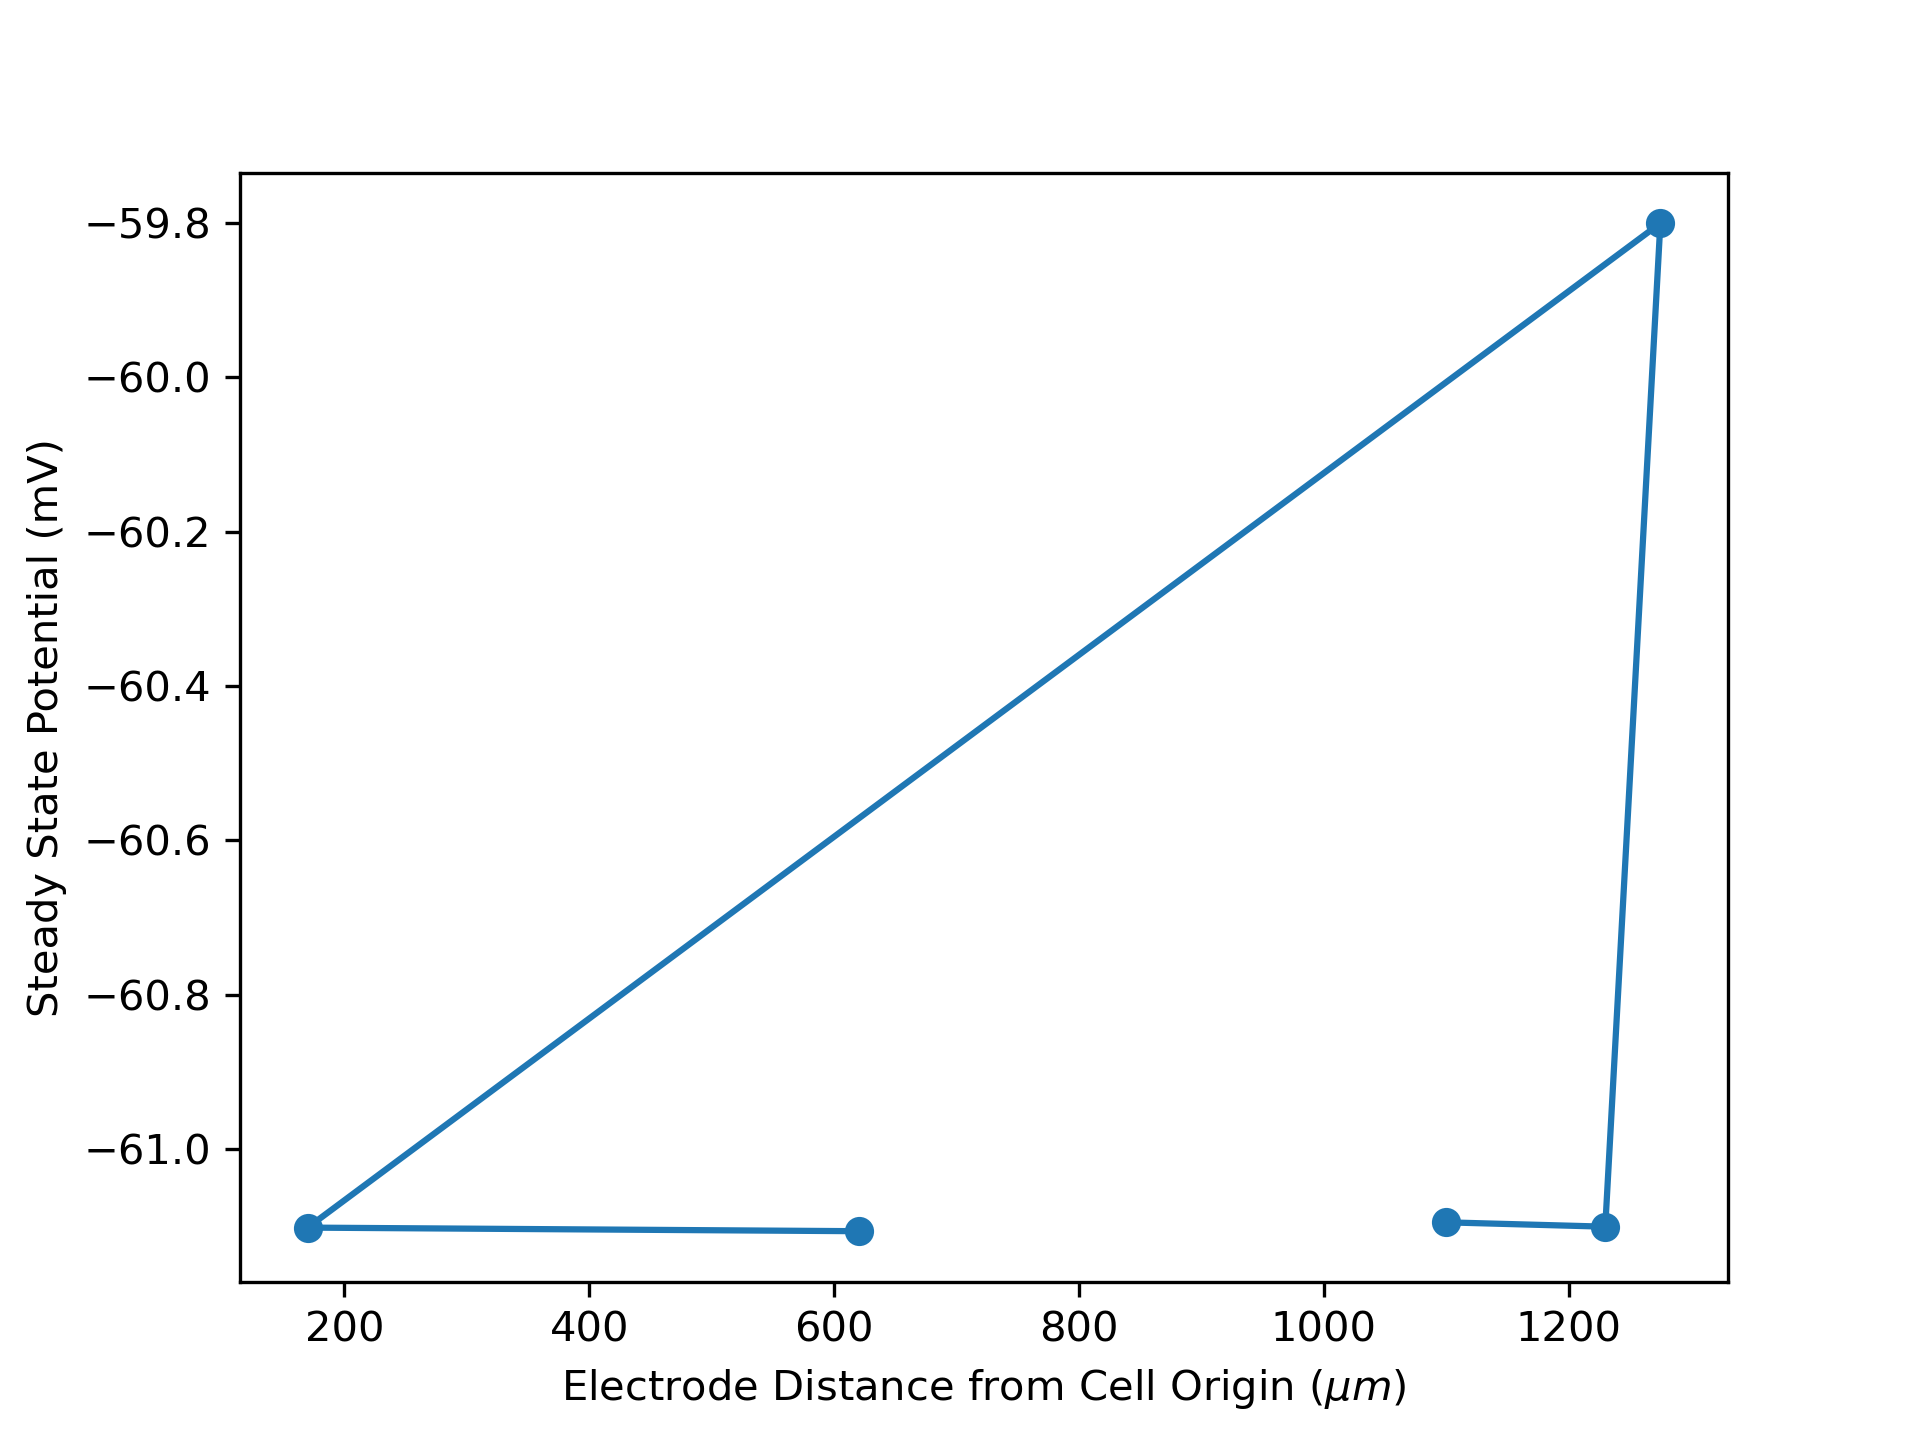
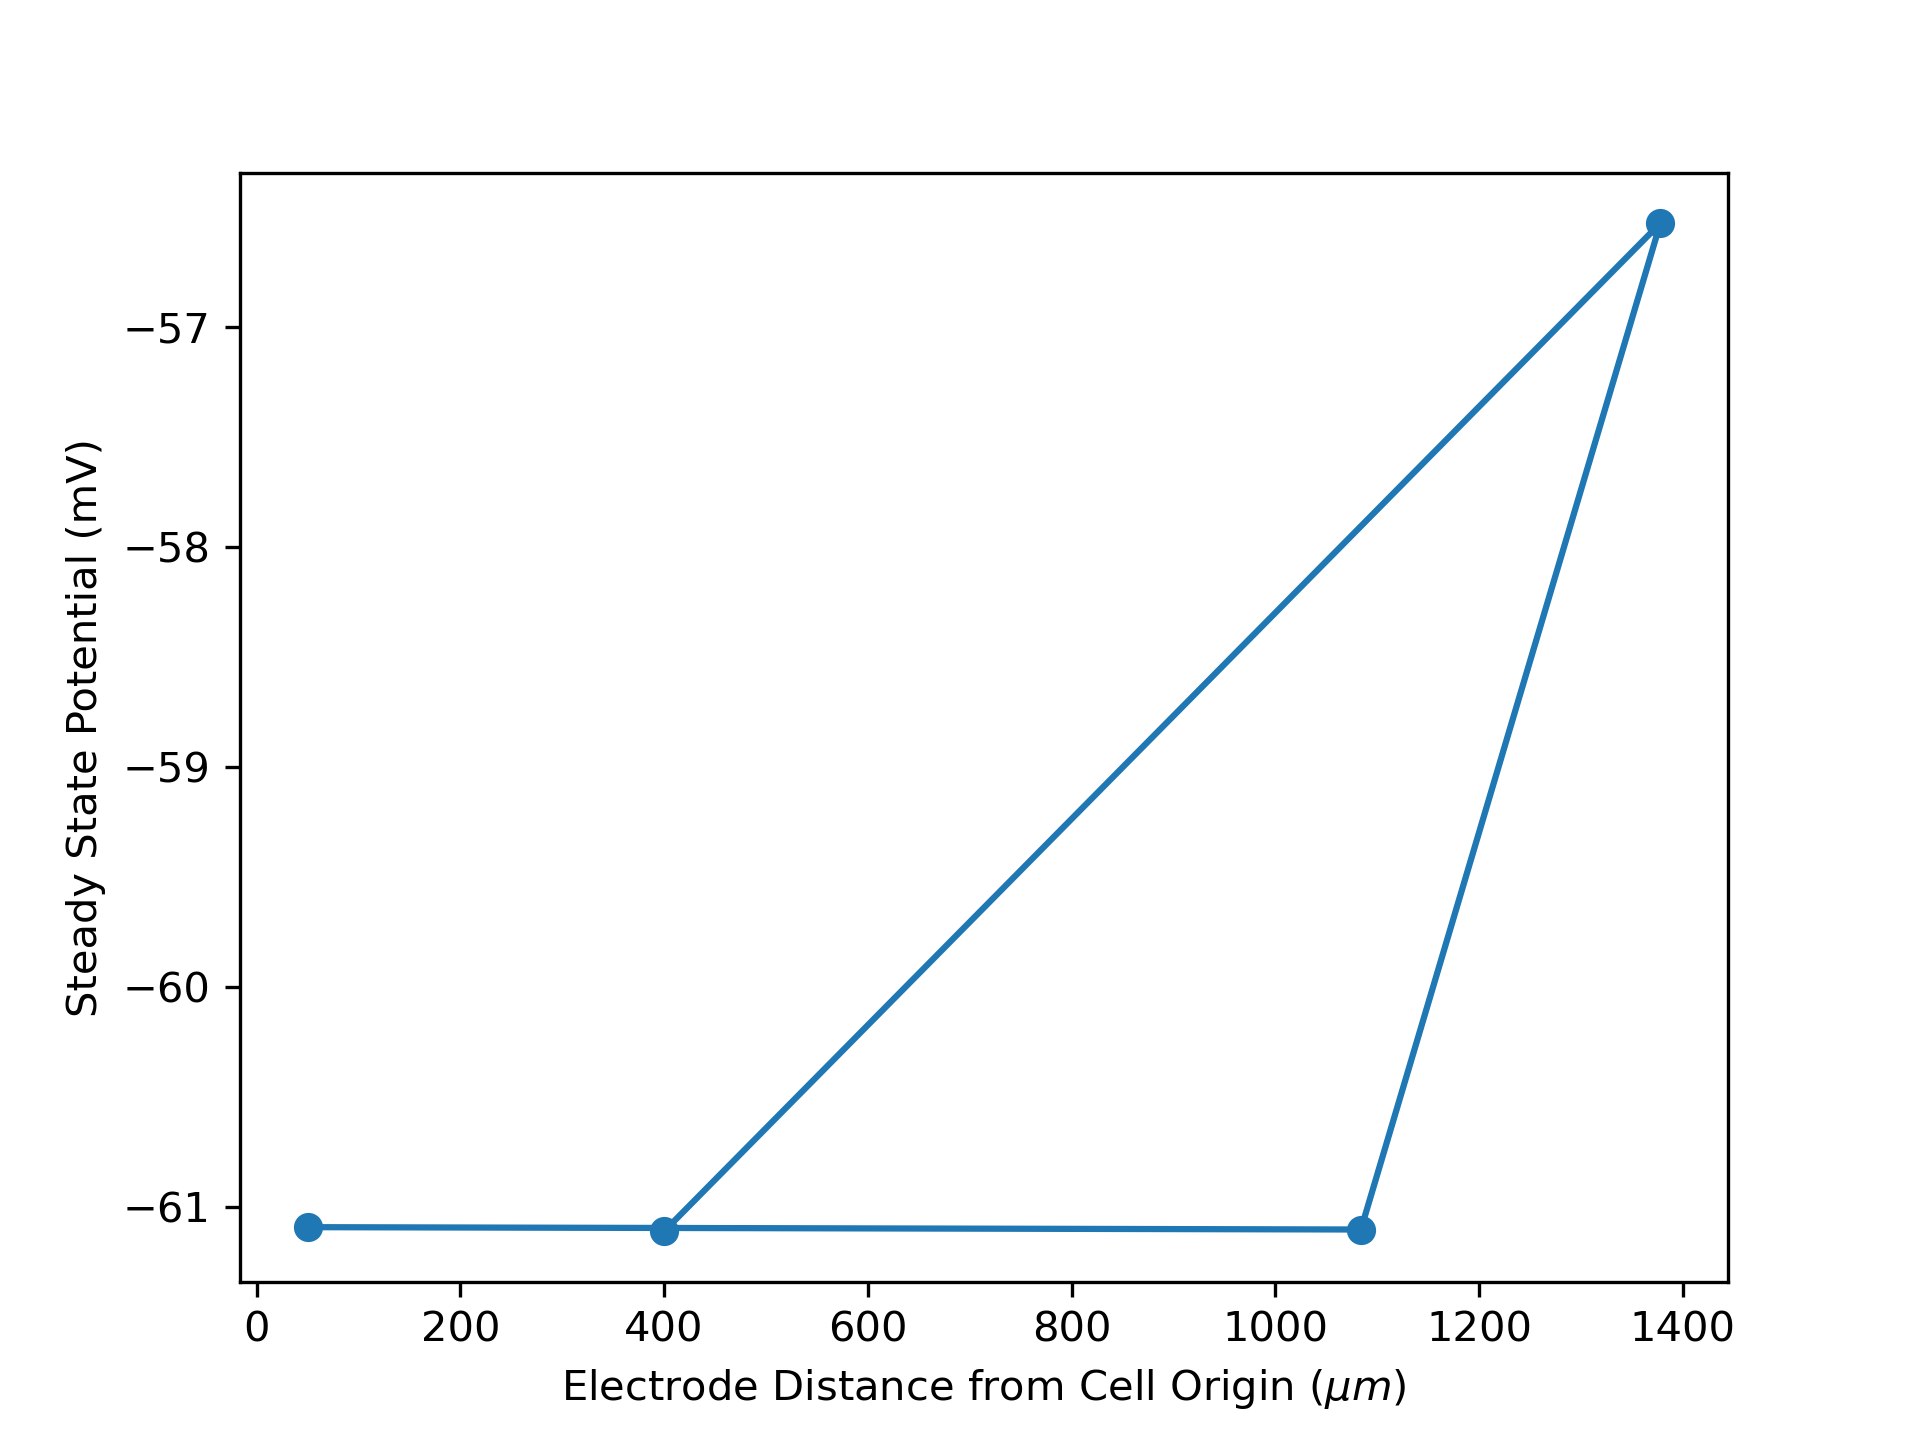
Fixing results

diff --git a/hallermann_single_source_pulse.py b/hallermann_single_source_pulse.py
@@ -17,11 +17,10 @@ extPotSim = ExternalPotentialSim(cellsim_Hallermann_params)
 
 # Test parameters
 current_amps = [1e4, -1e4, -5e3, -4e3, -3e3,  -1e3]  # uA
-positions = [np.array([[200, 0, 700], ], dtype=float),
-             np.array([[201, 130, 699], ], dtype=float),
-             np.array([[-215, 0, 860], ], dtype=float),
-             np.array([[-150, 0, -180], ], dtype=float),
-             np.array([[-20, 0, 400], ], dtype=float)]
+positions = [np.array([[50, 0, -200], ], dtype=float),
+             np.array([[201, 81, 602], ], dtype=float),
+             np.array([[-242, 7, 929], ], dtype=float),
+             np.array([[-200, 0, 0], ], dtype=float)]
 
 # current_amps = [-1e4]
 # positions = [np.array([[200, 0, 700], ], dtype=float)]
@@ -32,4 +31,4 @@ start = time.time()
 extPotSim.run_ext_sim(cell_models_folder, monophasic_pulse_params, current_amps,
                       positions, coordinates, 20)
 end = time.time()
-print(f'Time to execute {end - start}')
+print(f'Time to execute {end - start} seconds')
